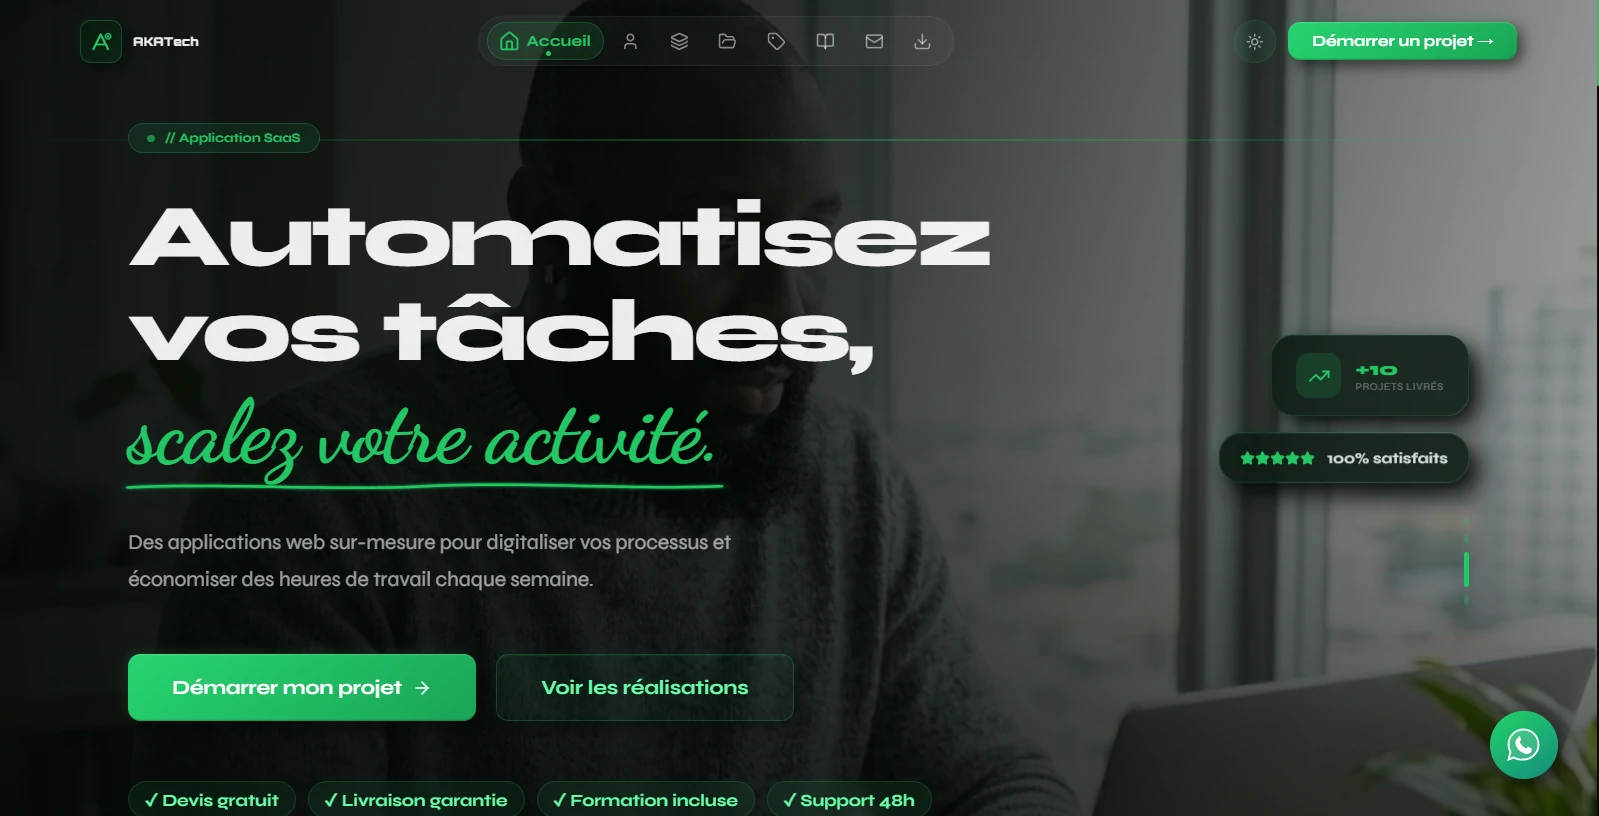
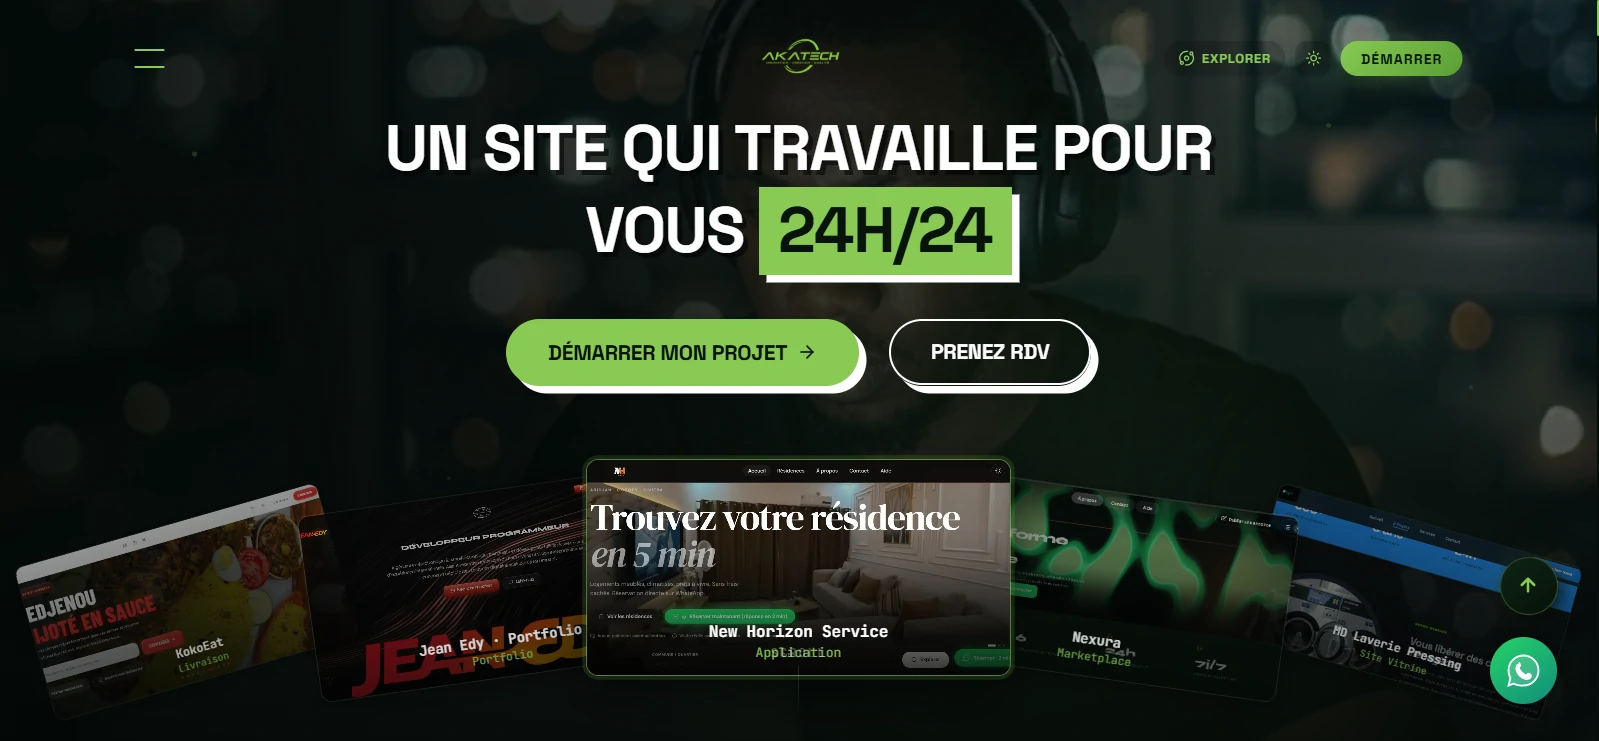
s envolement2

diff --git a/src/App.jsx b/src/App.jsx
@@ -836,16 +836,16 @@ function useScrollAnimations() {
  DONNÉES
  ════════════════════════════════════════════ */
 const PROJECTS = [
-  { id: 1, title: 'ShopCI', sub: 'Marketplace E-commerce', cat: 'en-ligne', img: '/assets/images/projects/monmarket-preview.webp', responsive: '/assets/images/projects/shopci-responsive.webp', imgFb: 'https://images.unsplash.com/photo-1557804506-669a67965ba0?w=600', tech: ['React', 'Django', 'Bootstrap 5', 'Vercel + PythonAnywhere'], url: 'https://shop-ci.vercel.app/', desc: "Marketplace multi-vendeurs conçue pour répondre aux problèmes de fiabilité, de visibilité et de gestion des ventes dans le e-commerce local ivoirien.", year: '2024',
+  { id: 1, title: 'ShopCI', sub: 'Marketplace E-commerce', cat: 'en-ligne', img: '/assets/images/projects/monmarket-preview.webp', responsive: '/assets/images/projects/shopci-responsive.webp', imgFb: 'https://images.unsplash.com/photo-1557804506-669a67965ba0?w=600', tech: ['React', 'Django', 'Bootstrap 5', 'Vercel + PythonAnywhere'], url: 'https://shop-ci.vercel.app/', desc: "Marketplace multi-vendeurs conçue pour répondre aux problèmes de fiabilité, de visibilité et de gestion des ventes dans le e-commerce local ivoirien.", year: '2026',
     private: true,
     problem: "Les vendeurs locaux n'avaient pas de vitrine en ligne fiable pour centraliser leurs produits et rassurer les acheteurs.",
     solution: "Marketplace multi-vendeurs avec back-office Django, fiches produits structurées et parcours d'achat simplifié.",
     result: "Estimation : temps de mise en ligne d'un produit réduit à quelques minutes pour un vendeur, contre plusieurs heures avant." },
-  { id: 2, title: 'TechFlow', sub: 'Site Vitrine Professionnel', cat: 'en-ligne', img: '/assets/images/projects/techflow-preview.webp', responsive: '/assets/images/projects/techflow.webp', imgFb: 'https://images.unsplash.com/photo-1547658719-da2b51169166?w=600', tech: ['HTML / Tailwind CSS', 'JavaScript', 'Vercel'], url: 'https://techflow-ten.vercel.app/', desc: 'Site vitrine moderne destiné à présenter une activité technologique de manière claire et professionnelle.', year: '2024',
+  { id: 2, title: 'TechFlow', sub: 'Site Vitrine Professionnel', cat: 'en-ligne', img: '/assets/images/projects/techflow-preview.webp', responsive: '/assets/images/projects/techflow.webp', imgFb: 'https://images.unsplash.com/photo-1547658719-da2b51169166?w=600', tech: ['HTML / Tailwind CSS', 'JavaScript', 'Vercel'], url: 'https://techflow-ten.vercel.app/', desc: 'Site vitrine moderne destiné à présenter une activité technologique de manière claire et professionnelle.', year: '2026',
     problem: "Le client n'avait aucune présence web pour présenter son activité tech de façon crédible.",
     solution: "Site vitrine one-page rapide, structuré autour de l'offre et des preuves de confiance.",
     result: "Estimation : site livré en moins d'une semaine, prêt à être partagé en prospection commerciale." },
-  { id: 3, title: 'TerraSafe', sub: 'Marketplace Foncière', cat: 'en-ligne', img: '/assets/images/projects/terrasafe-preview.webp', responsive: '/assets/images/projects/terrasafe.webp', imgFb: 'https://images.unsplash.com/photo-1560472354-b33ff0c44a43?w=600', tech: ['Python/Flask', 'MySQL', 'JavaScript', 'Bootstrap 5'], url: 'https://wthomassss06.pythonanywhere.com', desc: "Plateforme foncière visant à réduire les risques d'arnaques liées à la vente de terrains. Backend sécurisé avec recherche avancée.", year: '2024',
+  { id: 3, title: 'TerraSafe', sub: 'Marketplace Foncière', cat: 'en-ligne', img: '/assets/images/projects/terrasafe-preview.webp', responsive: '/assets/images/projects/terrasafe.webp', imgFb: 'https://images.unsplash.com/photo-1560472354-b33ff0c44a43?w=600', tech: ['Python/Flask', 'MySQL', 'JavaScript', 'Bootstrap 5'], url: 'https://wthomassss06.pythonanywhere.com', desc: "Plateforme foncière visant à réduire les risques d'arnaques liées à la vente de terrains. Backend sécurisé avec recherche avancée.", year: '2026',
     problem: "Trop d'arnaques sur la vente de terrains, faute de vérification des annonces et des vendeurs.",
     solution: "Backend sécurisé Flask/MySQL avec recherche avancée et structuration des annonces foncières.",
     result: "Architecture validée qui a servi de socle technique à NEXURA — preuve qu'elle tenait la route à l'échelle." },
@@ -865,44 +865,44 @@ const PROJECTS = [
     problem: "Les livraisons locales manquent de traçabilité : pas de preuve de dépôt, pas de suivi d'étapes.",
     solution: "Système de suivi logistique avec validation photo (Camera API) et statuts de livraison en direct.",
     result: "Simulation d'un vrai workflow logistique, de la prise en charge jusqu'à la preuve de livraison." },
-  { id: 8, title: 'LinkedIn Banner Pro', sub: 'Générateur SaaS', cat: 'en-cours', img: '/assets/images/projects/linkedin-banner-preview.webp', responsive: '/assets/images/projects/linkedin-banner.webp', imgFb: 'https://images.unsplash.com/photo-1558655146-d09347e92766?w=600', tech: ['JavaScript', 'Canvas API', 'Tailwind CSS'], url: '/demos/projet7.html', desc: 'Outil SaaS en cours de développement permettant de générer des bannières LinkedIn professionnelles.', year: '2025',
+  { id: 8, title: 'LinkedIn Banner Pro', sub: 'Générateur SaaS', cat: 'en-cours', img: '/assets/images/projects/linkedin-banner-preview.webp', responsive: '/assets/images/projects/linkedin-banner.webp', imgFb: 'https://images.unsplash.com/photo-1558655146-d09347e92766?w=600', tech: ['JavaScript', 'Canvas API', 'Tailwind CSS'], url: '/demos/projet7.html', desc: 'Outil SaaS en cours de développement permettant de générer des bannières LinkedIn professionnelles.', year: '2026',
     problem: "Créer une bannière LinkedIn pro demande des outils de design payants ou complexes à prendre en main.",
     solution: "Générateur SaaS avec rendu Canvas API, pensé pour un export rapide sans compétence design.",
     result: "Projet en cours — objectif : générer une bannière personnalisée en moins de 60 secondes." },
-  { id: 9, title: 'Tati', sub: 'Portfolio & Vitrine Moderne', cat: 'en-ligne', img: '/assets/images/projects/tati-preview.webp', responsive: '/assets/images/projects/tati.webp', imgFb: 'https://images.unsplash.com/photo-1618005182384-a83a8bd57fbe?w=600', tech: ['React', 'Tailwind CSS', 'Framer Motion', 'Vercel'], url: 'https://tatii.vercel.app/', desc: 'Portfolio personnel double fonction avec animations fluides, thème sombre/clair, design 100% responsive.', year: '2024',
+  { id: 9, title: 'Tati', sub: 'Portfolio & Vitrine Moderne', cat: 'en-ligne', img: '/assets/images/projects/tati-preview.webp', responsive: '/assets/images/projects/tati.webp', imgFb: 'https://images.unsplash.com/photo-1618005182384-a83a8bd57fbe?w=600', tech: ['React', 'Tailwind CSS', 'Framer Motion', 'Vercel'], url: 'https://tatii.vercel.app/', desc: 'Portfolio personnel double fonction avec animations fluides, thème sombre/clair, design 100% responsive.', year: '2026',
     github: 'https://github.com/wthomasss06-stack/tatii',
     problem: "Besoin d'un portfolio personnel qui sorte du template classique, avec une vraie identité visuelle.",
     solution: "Portfolio React/Framer Motion sur-mesure, thème clair/sombre, animations soignées de bout en bout.",
     result: "Livré et déployé en production — utilisé activement comme vitrine professionnelle." },
-  { id: 10, title: 'MK', sub: 'Portfolio Graphiste Client', cat: 'en-ligne', img: '/assets/images/projects/mk-preview.webp', responsive: '/assets/images/projects/mk.webp', imgFb: 'https://images.unsplash.com/photo-1555421689-491a97ff2040?w=600', tech: ['React', 'Tailwind CSS', 'Framer Motion', 'Vercel'], url: 'https://mory01ff.vercel.app/', desc: 'Portfolio professionnel sur-mesure pour un client graphiste. Galerie immersive, animations soignées.', year: '2024',
+  { id: 10, title: 'MK', sub: 'Portfolio Graphiste Client', cat: 'en-ligne', img: '/assets/images/projects/mk-preview.webp', responsive: '/assets/images/projects/mk.webp', imgFb: 'https://images.unsplash.com/photo-1555421689-491a97ff2040?w=600', tech: ['React', 'Tailwind CSS', 'Framer Motion', 'Vercel'], url: 'https://mory01ff.vercel.app/', desc: 'Portfolio professionnel sur-mesure pour un client graphiste. Galerie immersive, animations soignées.', year: '2026',
     problem: "Un graphiste avait besoin d'une galerie en ligne qui valorise ses créations sans les noyer dans un template.",
     solution: "Portfolio sur-mesure avec galerie immersive et animations pensées pour mettre le visuel en avant.",
     result: "Livré au client et en ligne — sert de vitrine commerciale directe pour ses prestations." },
-  { id: 11, title: 'ManoBeat 777', sub: 'Portfolio Beatmaker', cat: 'en-ligne', img: '/assets/images/projects/beatstore-preview.webp', responsive: '/assets/images/projects/beatstore.webp', imgFb: 'https://images.unsplash.com/photo-1493225457124-a3eb161ffa5f?w=600', tech: ['React', 'Tailwind CSS', 'Howler.js', 'Vercel'], url: 'https://xxx-x.vercel.app/', desc: "Portfolio d'un beatmaker ivoirien : découvrez et écoutez ses créations directement en ligne.", year: '2025',
+  { id: 11, title: 'ManoBeat 777', sub: 'Portfolio Beatmaker', cat: 'en-ligne', img: '/assets/images/projects/beatstore-preview.webp', responsive: '/assets/images/projects/beatstore.webp', imgFb: 'https://images.unsplash.com/photo-1493225457124-a3eb161ffa5f?w=600', tech: ['React', 'Tailwind CSS', 'Howler.js', 'Vercel'], url: 'https://xxx-x.vercel.app/', desc: "Portfolio d'un beatmaker ivoirien : découvrez et écoutez ses créations directement en ligne.", year: '2026',
     problem: "Un beatmaker ivoirien n'avait aucun moyen de faire écouter ses créations en ligne de façon professionnelle.",
     solution: "Portfolio audio avec lecteur intégré Howler.js pour écouter les créations directement sur le site.",
     result: "Estimation : écoute d'un beat ramenée à un simple clic, sans passer par un lien externe." },
-  { id: 12, title: 'New Horizon Service', sub: 'Location de Résidences', cat: 'en-ligne', img: '/assets/images/projects/newhorizon-preview.webp', responsive: '/assets/images/projects/newhorizon.webp', imgFb: 'https://images.unsplash.com/photo-1551650975-87deedd944c3?w=600', tech: ['Next.js', 'Flask', 'Python', 'MySQL', 'Vercel'], url: 'https://new-horizonservice.vercel.app/', desc: 'Plateforme de location de résidences meublées haut de gamme avec backend Flask sécurisé.', year: '2025',
+  { id: 12, title: 'New Horizon Service', sub: 'Location de Résidences', cat: 'en-ligne', img: '/assets/images/projects/newhorizon-preview.webp', responsive: '/assets/images/projects/newhorizon.webp', imgFb: 'https://images.unsplash.com/photo-1551650975-87deedd944c3?w=600', tech: ['Next.js', 'Flask', 'Python', 'MySQL', 'Vercel'], url: 'https://new-horizonservice.vercel.app/', desc: 'Plateforme de location de résidences meublées haut de gamme avec backend Flask sécurisé.', year: '2026',
     github: 'https://github.com/wthomasss06-stack/AllonsSomo',
     problem: "Les résidences meublées haut de gamme manquaient d'une plateforme de location fiable et sécurisée.",
     solution: "Plateforme Next.js/Flask avec backend sécurisé pour la gestion des annonces et des réservations.",
     result: "En production — a servi de base validée avant l'évolution vers NEXURA." },
-  { id: 13, title: 'AKATech', sub: 'Agence Digitale Abidjan', cat: 'en-ligne', img: '/assets/images/projects/akatech-preview.webp', responsive: '/assets/images/projects/akatech.webp', imgFb: 'https://images.unsplash.com/photo-1531403009284-440f080d1e12?w=600', tech: ['Next.js 15', 'Framer Motion', 'WebGL Aurora', 'Vercel'], url: 'https://akatech.vercel.app/', desc: "Site officiel de mon agence — AKATech accompagne les entrepreneurs et PME en Côte d'Ivoire.", year: '2025',
+  { id: 13, title: 'AKATech', sub: 'Agence Digitale Abidjan', cat: 'en-ligne', img: '/assets/images/projects/akatech-preview.webp', responsive: '/assets/images/projects/akatech.webp', imgFb: 'https://images.unsplash.com/photo-1531403009284-440f080d1e12?w=600', tech: ['Next.js 15', 'Framer Motion', 'WebGL Aurora', 'Vercel'], url: 'https://akatech.vercel.app/', desc: "Site officiel de mon agence — AKATech accompagne les entrepreneurs et PME en Côte d'Ivoire.", year: '2026',
     github: 'https://github.com/wthomasss06-stack/akatech-agencenext',
     problem: "Mon agence n'avait pas de site propre capable de convertir les prospects en clients.",
     solution: "Site agence Next.js 15 avec WebGL Aurora, animations Framer Motion et structure orientée conversion (process, pricing, projets).",
     result: "En production, indexé rapidement sur Google — sert de vitrine commerciale principale." },
-  { id: 14, title: 'Université les Anges', sub: 'Site Institutionnel', cat: 'en-ligne', img: '/assets/images/projects/universitelesanges-preview.webp', responsive: '/assets/images/projects/universitelesanges.webp', imgFb: 'https://images.unsplash.com/photo-1581291518633-83b4ebd1d83e?w=600', tech: ['HTML', 'CSS', 'Bulma', 'Bootstrap', 'Vercel'], url: 'https://universitelesanges.vercel.app/', desc: "Site institutionnel moderne pour l'Université les Anges.", year: '2025',
+  { id: 14, title: 'Université les Anges', sub: 'Site Institutionnel', cat: 'en-ligne', img: '/assets/images/projects/universitelesanges-preview.webp', responsive: '/assets/images/projects/universitelesanges.webp', imgFb: 'https://images.unsplash.com/photo-1581291518633-83b4ebd1d83e?w=600', tech: ['HTML', 'CSS', 'Bulma', 'Bootstrap', 'Vercel'], url: 'https://universitelesanges.vercel.app/', desc: "Site institutionnel moderne pour l'Université les Anges.", year: '2026',
     github: 'https://github.com/wthomasss06-stack/universite-les-anges',
     problem: "Une université privée avait besoin d'un site institutionnel crédible pour rassurer futurs étudiants et parents.",
     solution: "Site institutionnel structuré (présentation, filières, contact) en HTML/Bulma/Bootstrap.",
     result: "Livré et en ligne — utilisé comme point d'entrée officiel de l'établissement." },
-  { id: 15, title: 'NEXURA', sub: 'Marketplace Nouvelle Génération', cat: 'en-ligne', img: '/assets/images/projects/nexura-preview.webp', responsive: '/assets/images/projects/nexura-responsive.webp', imgFb: 'https://images.unsplash.com/photo-1560472354-b33ff0c44a43?w=600', tech: ['Next.js 14', 'Django REST', 'PostgreSQL', 'WebSockets', 'Redis & Celery'], url: 'https://nexura-one.vercel.app/', desc: "Marketplace nouvelle génération — évolution de TerraSafe. Location de résidences meublées, motos & véhicules, bureaux & salles de conférence, terrains & immobilier. Auth sécurisée, KYC intégré, temps réel.", year: '2025',
+  { id: 15, title: 'NEXURA', sub: 'Marketplace Nouvelle Génération', cat: 'en-ligne', img: '/assets/images/projects/nexura-preview.webp', responsive: '/assets/images/projects/nexura-responsive.webp', imgFb: 'https://images.unsplash.com/photo-1560472354-b33ff0c44a43?w=600', tech: ['Next.js 14', 'Django REST', 'PostgreSQL', 'WebSockets', 'Redis & Celery'], url: 'https://nexura-one.vercel.app/', desc: "Marketplace nouvelle génération — évolution de TerraSafe. Location de résidences meublées, motos & véhicules, bureaux & salles de conférence, terrains & immobilier. Auth sécurisée, KYC intégré, temps réel.", year: '2026',
     private: true,
     problem: "TerraSafe avait besoin de passer à l'échelle : plus de catégories, plus de sécurité, du temps réel.",
     solution: "Marketplace nouvelle génération Next.js 14 + Django REST + WebSockets, KYC intégré, architecture pensée pour réduire le risque légal.",
     result: "Projet le plus avancé techniquement du portfolio — repo privé (client), en évolution continue." },
-  { id: 16, title: 'KokoEat', sub: 'Livraison Alimentaire', cat: 'en-cours', img: '/assets/images/projects/kokoeat-preview.webp', responsive: '/assets/images/projects/kokoeat-responsive.webp', imgFb: 'https://images.unsplash.com/photo-[phone redacted]-b28f40a0ae38?w=600', tech: ['React', 'Django REST', 'PostgreSQL', 'Vercel'], url: '#', desc: "Application de livraison de repas pensée pour le marché ivoirien. Commande en ligne, suivi en temps réel et paiement Mobile Money.", year: '2025',
+  { id: 16, title: 'KokoEat', sub: 'Livraison Alimentaire', cat: 'en-cours', img: '/assets/images/projects/kokoeat-preview.webp', responsive: '/assets/images/projects/kokoeat-responsive.webp', imgFb: 'https://images.unsplash.com/photo-[phone redacted]-b28f40a0ae38?w=600', tech: ['React', 'Django REST', 'PostgreSQL', 'Vercel'], url: '#', desc: "Application de livraison de repas pensée pour le marché ivoirien. Commande en ligne, suivi en temps réel et paiement Mobile Money.", year: '2026',
     problem: "Le marché ivoirien manque d'une app de livraison de repas pensée pour le paiement Mobile Money.",
     solution: "App de commande en ligne avec suivi temps réel et intégration Mobile Money prévue.",
     result: "Projet en cours de développement." },
@@ -911,11 +911,15 @@ const PROJECTS = [
     problem: "Un développeur avait besoin d'un portfolio qui démontre un niveau UI avancé pour ses candidatures.",
     solution: "Portfolio React 18/GSAP avec direction artistique skeuomorphisme complet, sur-mesure.",
     result: "Livré et en ligne — repo privé (client)." },
-  { id: 18, title: 'MD Laverie Pressing', sub: 'Site Vitrine Pressing', cat: 'en-ligne', img: '/assets/images/projects/laverie-preview.webp', responsive: '/assets/images/projects/laverie.webp', imgFb: 'https://images.unsplash.com/photo-[phone redacted]-4fe89db7114c?w=600', tech: ['React 18', 'Vite', 'GSAP', 'React Router v6', 'EmailJS'], url: 'https://laverie-plus.vercel.app/', desc: "Site vitrine complet pour MD Laverie Pressing, Abidjan. Hero slider GSAP, grille packs pricing, formulaire contact EmailJS.", year: '2025',
+  { id: 18, title: 'MD Laverie Pressing', sub: 'Site Vitrine Pressing', cat: 'en-ligne', img: '/assets/images/projects/laverie-preview.webp', responsive: '/assets/images/projects/laverie.webp', imgFb: 'https://images.unsplash.com/photo-[phone redacted]-4fe89db7114c?w=600', tech: ['React 18', 'Vite', 'GSAP', 'React Router v6', 'EmailJS'], url: 'https://laverie-plus.vercel.app/', desc: "Site vitrine complet pour MD Laverie Pressing, Abidjan. Hero slider GSAP, grille packs pricing, formulaire contact EmailJS.", year: '2026',
     github: 'https://github.com/wthomasss06-stack/PRESSING',
     problem: "Un pressing à Abidjan n'avait aucune présence en ligne pour présenter ses tarifs et être contacté.",
     solution: "Site vitrine React/GSAP avec hero slider, grille de tarifs claire et formulaire de contact EmailJS.",
     result: "Livré et en ligne — génère des demandes de contact directement depuis le site." },
+  { id: 19, title: 'Chez Florence', sub: 'Vente & Réservation de Lapins', cat: 'en-ligne', img: '/assets/images/projects/chez-florence-preview.webp', responsive: '/assets/images/projects/chez-florence-responsive.webp', responsive2: '/assets/images/projects/chez-florence-responsive2.webp', imgFb: 'https://images.unsplash.com/photo-[phone redacted]-c9ffd4e4b308?w=600', tech: ['Next.js 14', 'Express.js', 'Prisma', 'PostgreSQL (Neon)', 'Cloudinary'], url: 'https://lapinou.vercel.app/', desc: "Plateforme de présentation et réservation de lapins pour éleveurs et particuliers : fiches par race, réservation en ligne, stock synchronisé en temps réel et notification WhatsApp automatique.", year: '2026',
+    problem: "Les éleveurs de lapins n'avaient aucune vitrine en ligne pour présenter leurs races et centraliser les réservations.",
+    solution: "App Next.js/Express avec fiches détaillées par race, réservation en ligne (quantité, stock auto-décrémenté) et double notification — email admin et WhatsApp pré-rempli.",
+    result: "PWA installable avec tableau de bord admin (stock, réservations, stats de vente) — livré et en production." },
 ]
 
 const SERVICES = [
@@ -1932,14 +1936,14 @@ function HeroZoomSection() {
 
 /* ════════════════════════════════════════════
  FEATURED CREATION — desktop
- Auto-slide entre KokoEat (16) et Nexura (15)
+ Auto-slide entre KokoEat (16) et Chez Florence (19)
  Pas de tabs — slide auto toutes les 6 s
  ════════════════════════════════════════════ */
 
 /* Ids des projets à présenter dans la section hero-projet,
  dans l'ordre souhaité. On s'appuie sur PROJECTS.responsive
  pour le mockup mobile, et PROJECTS.img pour le desktop. */
-const FC_PROJECT_IDS = [16, 15]
+const FC_PROJECT_IDS = [16, 19]
 
 /* Résout l'URL de la barre du navigateur mockup */
 function fcBarUrl(proj) {
@@ -2099,7 +2103,7 @@ function FeaturedCreationDesktop() {
  PROJECTS TUNNEL — "Mes projets" — WebGL Hyper-Drive
  Remplace l'ancien horizontal parallax (fcx-*).
  Tunnel Three.js pinné en scroll (GSAP ScrollTrigger),
- débris texturés avec les captures des 18 projets,
+ débris texturés avec les captures des 19 projets,
  la séquence complète des projets est dupliquée le
  long de l'axe Z pour boucler deux fois pendant le scroll.
  Clic sur une carte → modal image + détails projet.
@@ -2147,7 +2151,7 @@ function ProjectsTunnel() {
     movingLight.position.set(0, 0, -200)
     scene.add(movingLight)
 
-    /* ── Textures : les captures des 18 projets (pas d'Unsplash) ── */
+    /* ── Textures : les captures des 19 projets (pas d'Unsplash) ── */
     const textureLoader = new THREE.TextureLoader()
     const projectTextures = PROJECTS.map(p => {
       const tex = textureLoader.load(p.img)
@@ -2200,7 +2204,7 @@ function ProjectsTunnel() {
     const SPACING = 52 // espacement accru pour laisser respirer les cartes agrandies
     const LOOP_LENGTH = ITEMS_PER_LOOP * SPACING // 1872
 
-    // Construit une boucle complète de la séquence des 18 projets.
+    // Construit une boucle complète de la séquence des 19 projets.
     // Appelée deux fois (loopIndex 0 et 1) : le tunnel boucle deux fois.
     function buildLoop(loopIndex) {
       for (let i = 0; i < ITEMS_PER_LOOP; i++) {
@@ -2645,7 +2649,7 @@ function ProjectsTunnel() {
  chiffre en count-up + label, façon "30+ awards"
  ════════════════════════════════════════════ */
 const ABOUT_STATS = [
-  { target: 18, suffix: '', label: 'Projets', sub: 'Livrés sur mesure, du concept au déploiement' },
+  { target: 19, suffix: '', label: 'Projets', sub: 'Livrés sur mesure, du concept au déploiement' },
   { target: 3, suffix: '+', label: 'Années', sub: 'D’expérience en développement web' },
   { target: 12, suffix: '', label: 'En prod.', sub: 'Applications actuellement en ligne' },
   { target: 15, suffix: '', label: 'Outils', sub: 'Technologies maîtrisées au quotidien' },

diff --git a/src/data/portfolioData.js b/src/data/portfolioData.js
@@ -50,16 +50,16 @@ export const CONTACT = {
 // variantes d'images). Win95Portfolio.jsx a une version plus pauvre
 // (mêmes projets, sans le narratif) — à migrer vers celle-ci.
 export const PROJECTS = [
-  { id: 1, title: 'ShopCI', sub: 'Marketplace E-commerce', cat: 'en-ligne', img: '/assets/images/projects/monmarket-preview.webp', responsive: '/assets/images/projects/shopci-responsive.webp', imgFb: 'https://images.unsplash.com/photo-1557804506-669a67965ba0?w=600', tech: ['React', 'Django', 'Bootstrap 5', 'Vercel + PythonAnywhere'], url: 'https://shop-ci.vercel.app/', desc: "Marketplace multi-vendeurs conçue pour répondre aux problèmes de fiabilité, de visibilité et de gestion des ventes dans le e-commerce local ivoirien.", year: '2024',
+  { id: 1, title: 'ShopCI', sub: 'Marketplace E-commerce', cat: 'en-ligne', img: '/assets/images/projects/monmarket-preview.webp', responsive: '/assets/images/projects/shopci-responsive.webp', imgFb: 'https://images.unsplash.com/photo-1557804506-669a67965ba0?w=600', tech: ['React', 'Django', 'Bootstrap 5', 'Vercel + PythonAnywhere'], url: 'https://shop-ci.vercel.app/', desc: "Marketplace multi-vendeurs conçue pour répondre aux problèmes de fiabilité, de visibilité et de gestion des ventes dans le e-commerce local ivoirien.", year: '2026',
     private: true,
     problem: "Les vendeurs locaux n'avaient pas de vitrine en ligne fiable pour centraliser leurs produits et rassurer les acheteurs.",
     solution: "Marketplace multi-vendeurs avec back-office Django, fiches produits structurées et parcours d'achat simplifié.",
     result: "Estimation : temps de mise en ligne d'un produit réduit à quelques minutes pour un vendeur, contre plusieurs heures avant." },
-  { id: 2, title: 'TechFlow', sub: 'Site Vitrine Professionnel', cat: 'en-ligne', img: '/assets/images/projects/techflow-preview.webp', responsive: '/assets/images/projects/techflow.webp', imgFb: 'https://images.unsplash.com/photo-1547658719-da2b51169166?w=600', tech: ['HTML / Tailwind CSS', 'JavaScript', 'Vercel'], url: 'https://techflow-ten.vercel.app/', desc: 'Site vitrine moderne destiné à présenter une activité technologique de manière claire et professionnelle.', year: '2024',
+  { id: 2, title: 'TechFlow', sub: 'Site Vitrine Professionnel', cat: 'en-ligne', img: '/assets/images/projects/techflow-preview.webp', responsive: '/assets/images/projects/techflow.webp', imgFb: 'https://images.unsplash.com/photo-1547658719-da2b51169166?w=600', tech: ['HTML / Tailwind CSS', 'JavaScript', 'Vercel'], url: 'https://techflow-ten.vercel.app/', desc: 'Site vitrine moderne destiné à présenter une activité technologique de manière claire et professionnelle.', year: '2026',
     problem: "Le client n'avait aucune présence web pour présenter son activité tech de façon crédible.",
     solution: "Site vitrine one-page rapide, structuré autour de l'offre et des preuves de confiance.",
     result: "Estimation : site livré en moins d'une semaine, prêt à être partagé en prospection commerciale." },
-  { id: 3, title: 'TerraSafe', sub: 'Marketplace Foncière', cat: 'en-ligne', img: '/assets/images/projects/terrasafe-preview.webp', responsive: '/assets/images/projects/terrasafe.webp', imgFb: 'https://images.unsplash.com/photo-1560472354-b33ff0c44a43?w=600', tech: ['Python/Flask', 'MySQL', 'JavaScript', 'Bootstrap 5'], url: 'https://wthomassss06.pythonanywhere.com', desc: "Plateforme foncière visant à réduire les risques d'arnaques liées à la vente de terrains. Backend sécurisé avec recherche avancée.", year: '2024',
+  { id: 3, title: 'TerraSafe', sub: 'Marketplace Foncière', cat: 'en-ligne', img: '/assets/images/projects/terrasafe-preview.webp', responsive: '/assets/images/projects/terrasafe.webp', imgFb: 'https://images.unsplash.com/photo-1560472354-b33ff0c44a43?w=600', tech: ['Python/Flask', 'MySQL', 'JavaScript', 'Bootstrap 5'], url: 'https://wthomassss06.pythonanywhere.com', desc: "Plateforme foncière visant à réduire les risques d'arnaques liées à la vente de terrains. Backend sécurisé avec recherche avancée.", year: '2026',
     problem: "Trop d'arnaques sur la vente de terrains, faute de vérification des annonces et des vendeurs.",
     solution: "Backend sécurisé Flask/MySQL avec recherche avancée et structuration des annonces foncières.",
     result: "Architecture validée qui a servi de socle technique à NEXURA — preuve qu'elle tenait la route à l'échelle." },
@@ -79,44 +79,44 @@ export const PROJECTS = [
     problem: "Les livraisons locales manquent de traçabilité : pas de preuve de dépôt, pas de suivi d'étapes.",
     solution: "Système de suivi logistique avec validation photo (Camera API) et statuts de livraison en direct.",
     result: "Simulation d'un vrai workflow logistique, de la prise en charge jusqu'à la preuve de livraison." },
-  { id: 8, title: 'LinkedIn Banner Pro', sub: 'Générateur SaaS', cat: 'en-cours', img: '/assets/images/projects/linkedin-banner-preview.webp', responsive: '/assets/images/projects/linkedin-banner.webp', imgFb: 'https://images.unsplash.com/photo-1558655146-d09347e92766?w=600', tech: ['JavaScript', 'Canvas API', 'Tailwind CSS'], url: '/demos/projet7.html', desc: 'Outil SaaS en cours de développement permettant de générer des bannières LinkedIn professionnelles.', year: '2025',
+  { id: 8, title: 'LinkedIn Banner Pro', sub: 'Générateur SaaS', cat: 'en-cours', img: '/assets/images/projects/linkedin-banner-preview.webp', responsive: '/assets/images/projects/linkedin-banner.webp', imgFb: 'https://images.unsplash.com/photo-1558655146-d09347e92766?w=600', tech: ['JavaScript', 'Canvas API', 'Tailwind CSS'], url: '/demos/projet7.html', desc: 'Outil SaaS en cours de développement permettant de générer des bannières LinkedIn professionnelles.', year: '2026',
     problem: "Créer une bannière LinkedIn pro demande des outils de design payants ou complexes à prendre en main.",
     solution: "Générateur SaaS avec rendu Canvas API, pensé pour un export rapide sans compétence design.",
     result: "Projet en cours — objectif : générer une bannière personnalisée en moins de 60 secondes." },
-  { id: 9, title: 'Tati', sub: 'Portfolio & Vitrine Moderne', cat: 'en-ligne', img: '/assets/images/projects/tati-preview.webp', responsive: '/assets/images/projects/tati.webp', imgFb: 'https://images.unsplash.com/photo-1618005182384-a83a8bd57fbe?w=600', tech: ['React', 'Tailwind CSS', 'Framer Motion', 'Vercel'], url: 'https://tatii.vercel.app/', desc: 'Portfolio personnel double fonction avec animations fluides, thème sombre/clair, design 100% responsive.', year: '2024',
+  { id: 9, title: 'Tati', sub: 'Portfolio & Vitrine Moderne', cat: 'en-ligne', img: '/assets/images/projects/tati-preview.webp', responsive: '/assets/images/projects/tati.webp', imgFb: 'https://images.unsplash.com/photo-1618005182384-a83a8bd57fbe?w=600', tech: ['React', 'Tailwind CSS', 'Framer Motion', 'Vercel'], url: 'https://tatii.vercel.app/', desc: 'Portfolio personnel double fonction avec animations fluides, thème sombre/clair, design 100% responsive.', year: '2026',
     github: 'https://github.com/wthomasss06-stack/tatii',
     problem: "Besoin d'un portfolio personnel qui sorte du template classique, avec une vraie identité visuelle.",
     solution: "Portfolio React/Framer Motion sur-mesure, thème clair/sombre, animations soignées de bout en bout.",
     result: "Livré et déployé en production — utilisé activement comme vitrine professionnelle." },
-  { id: 10, title: 'MK', sub: 'Portfolio Graphiste Client', cat: 'en-ligne', img: '/assets/images/projects/mk-preview.webp', responsive: '/assets/images/projects/mk.webp', imgFb: 'https://images.unsplash.com/photo-1555421689-491a97ff2040?w=600', tech: ['React', 'Tailwind CSS', 'Framer Motion', 'Vercel'], url: 'https://mory01ff.vercel.app/', desc: 'Portfolio professionnel sur-mesure pour un client graphiste. Galerie immersive, animations soignées.', year: '2024',
+  { id: 10, title: 'MK', sub: 'Portfolio Graphiste Client', cat: 'en-ligne', img: '/assets/images/projects/mk-preview.webp', responsive: '/assets/images/projects/mk.webp', imgFb: 'https://images.unsplash.com/photo-1555421689-491a97ff2040?w=600', tech: ['React', 'Tailwind CSS', 'Framer Motion', 'Vercel'], url: 'https://mory01ff.vercel.app/', desc: 'Portfolio professionnel sur-mesure pour un client graphiste. Galerie immersive, animations soignées.', year: '2026',
     problem: "Un graphiste avait besoin d'une galerie en ligne qui valorise ses créations sans les noyer dans un template.",
     solution: "Portfolio sur-mesure avec galerie immersive et animations pensées pour mettre le visuel en avant.",
     result: "Livré au client et en ligne — sert de vitrine commerciale directe pour ses prestations." },
-  { id: 11, title: 'ManoBeat 777', sub: 'Portfolio Beatmaker', cat: 'en-ligne', img: '/assets/images/projects/beatstore-preview.webp', responsive: '/assets/images/projects/beatstore.webp', imgFb: 'https://images.unsplash.com/photo-1493225457124-a3eb161ffa5f?w=600', tech: ['React', 'Tailwind CSS', 'Howler.js', 'Vercel'], url: 'https://xxx-x.vercel.app/', desc: "Portfolio d'un beatmaker ivoirien : découvrez et écoutez ses créations directement en ligne.", year: '2025',
+  { id: 11, title: 'ManoBeat 777', sub: 'Portfolio Beatmaker', cat: 'en-ligne', img: '/assets/images/projects/beatstore-preview.webp', responsive: '/assets/images/projects/beatstore.webp', imgFb: 'https://images.unsplash.com/photo-1493225457124-a3eb161ffa5f?w=600', tech: ['React', 'Tailwind CSS', 'Howler.js', 'Vercel'], url: 'https://xxx-x.vercel.app/', desc: "Portfolio d'un beatmaker ivoirien : découvrez et écoutez ses créations directement en ligne.", year: '2026',
     problem: "Un beatmaker ivoirien n'avait aucun moyen de faire écouter ses créations en ligne de façon professionnelle.",
     solution: "Portfolio audio avec lecteur intégré Howler.js pour écouter les créations directement sur le site.",
     result: "Estimation : écoute d'un beat ramenée à un simple clic, sans passer par un lien externe." },
-  { id: 12, title: 'New Horizon Service', sub: 'Location de Résidences', cat: 'en-ligne', img: '/assets/images/projects/newhorizon-preview.webp', responsive: '/assets/images/projects/newhorizon.webp', imgFb: 'https://images.unsplash.com/photo-1551650975-87deedd944c3?w=600', tech: ['Next.js', 'Flask', 'Python', 'MySQL', 'Vercel'], url: 'https://new-horizonservice.vercel.app/', desc: 'Plateforme de location de résidences meublées haut de gamme avec backend Flask sécurisé.', year: '2025',
+  { id: 12, title: 'New Horizon Service', sub: 'Location de Résidences', cat: 'en-ligne', img: '/assets/images/projects/newhorizon-preview.webp', responsive: '/assets/images/projects/newhorizon.webp', imgFb: 'https://images.unsplash.com/photo-1551650975-87deedd944c3?w=600', tech: ['Next.js', 'Flask', 'Python', 'MySQL', 'Vercel'], url: 'https://new-horizonservice.vercel.app/', desc: 'Plateforme de location de résidences meublées haut de gamme avec backend Flask sécurisé.', year: '2026',
     github: 'https://github.com/wthomasss06-stack/AllonsSomo',
     problem: "Les résidences meublées haut de gamme manquaient d'une plateforme de location fiable et sécurisée.",
     solution: "Plateforme Next.js/Flask avec backend sécurisé pour la gestion des annonces et des réservations.",
     result: "En production — a servi de base validée avant l'évolution vers NEXURA." },
-  { id: 13, title: 'akaTech', sub: 'Agence Digitale Abidjan', cat: 'en-ligne', img: '/assets/images/projects/akatech-preview.webp', responsive: '/assets/images/projects/akatech.webp', imgFb: 'https://images.unsplash.com/photo-1531403009284-440f080d1e12?w=600', tech: ['Next.js 15', 'Framer Motion', 'WebGL Aurora', 'Vercel'], url: 'https://akatech.vercel.app/', desc: "Site officiel de mon agence — akaTech accompagne les entrepreneurs et PME en Côte d'Ivoire.", year: '2025',
+  { id: 13, title: 'akaTech', sub: 'Agence Digitale Abidjan', cat: 'en-ligne', img: '/assets/images/projects/akatech-preview.webp', responsive: '/assets/images/projects/akatech.webp', imgFb: 'https://images.unsplash.com/photo-1531403009284-440f080d1e12?w=600', tech: ['Next.js 15', 'Framer Motion', 'WebGL Aurora', 'Vercel'], url: 'https://akatech.vercel.app/', desc: "Site officiel de mon agence — akaTech accompagne les entrepreneurs et PME en Côte d'Ivoire.", year: '2026',
     github: 'https://github.com/wthomasss06-stack/akatech-agencenext',
     problem: "Mon agence n'avait pas de site propre capable de convertir les prospects en clients.",
     solution: "Site agence Next.js 15 avec WebGL Aurora, animations Framer Motion et structure orientée conversion (process, pricing, projets).",
     result: "En production, indexé rapidement sur Google — sert de vitrine commerciale principale." },
-  { id: 14, title: 'Université les Anges', sub: 'Site Institutionnel', cat: 'en-ligne', img: '/assets/images/projects/universitelesanges-preview.webp', responsive: '/assets/images/projects/universitelesanges.webp', imgFb: 'https://images.unsplash.com/photo-1581291518633-83b4ebd1d83e?w=600', tech: ['HTML', 'CSS', 'Bulma', 'Bootstrap', 'Vercel'], url: 'https://universitelesanges.vercel.app/', desc: "Site institutionnel moderne pour l'Université les Anges.", year: '2025',
+  { id: 14, title: 'Université les Anges', sub: 'Site Institutionnel', cat: 'en-ligne', img: '/assets/images/projects/universitelesanges-preview.webp', responsive: '/assets/images/projects/universitelesanges.webp', imgFb: 'https://images.unsplash.com/photo-1581291518633-83b4ebd1d83e?w=600', tech: ['HTML', 'CSS', 'Bulma', 'Bootstrap', 'Vercel'], url: 'https://universitelesanges.vercel.app/', desc: "Site institutionnel moderne pour l'Université les Anges.", year: '2026',
     github: 'https://github.com/wthomasss06-stack/universite-les-anges',
     problem: "Une université privée avait besoin d'un site institutionnel crédible pour rassurer futurs étudiants et parents.",
     solution: "Site institutionnel structuré (présentation, filières, contact) en HTML/Bulma/Bootstrap.",
     result: "Livré et en ligne — utilisé comme point d'entrée officiel de l'établissement." },
-  { id: 15, title: 'NEXURA', sub: 'Marketplace Nouvelle Génération', cat: 'en-ligne', img: '/assets/images/projects/nexura-preview.webp', responsive: '/assets/images/projects/nexura-responsive.webp', imgFb: 'https://images.unsplash.com/photo-1560472354-b33ff0c44a43?w=600', tech: ['Next.js 14', 'Django REST', 'PostgreSQL', 'WebSockets', 'Redis & Celery'], url: 'https://nexura-one.vercel.app/', desc: "Marketplace nouvelle génération — évolution de TerraSafe. Location de résidences meublées, motos & véhicules, bureaux & salles de conférence, terrains & immobilier. Auth sécurisée, KYC intégré, temps réel.", year: '2025',
+  { id: 15, title: 'NEXURA', sub: 'Marketplace Nouvelle Génération', cat: 'en-ligne', img: '/assets/images/projects/nexura-preview.webp', responsive: '/assets/images/projects/nexura-responsive.webp', imgFb: 'https://images.unsplash.com/photo-1560472354-b33ff0c44a43?w=600', tech: ['Next.js 14', 'Django REST', 'PostgreSQL', 'WebSockets', 'Redis & Celery'], url: 'https://nexura-one.vercel.app/', desc: "Marketplace nouvelle génération — évolution de TerraSafe. Location de résidences meublées, motos & véhicules, bureaux & salles de conférence, terrains & immobilier. Auth sécurisée, KYC intégré, temps réel.", year: '2026',
     private: true,
     problem: "TerraSafe avait besoin de passer à l'échelle : plus de catégories, plus de sécurité, du temps réel.",
     solution: "Marketplace nouvelle génération Next.js 14 + Django REST + WebSockets, KYC intégré, architecture pensée pour réduire le risque légal.",
     result: "Projet le plus avancé techniquement du portfolio — repo privé (client), en évolution continue." },
-  { id: 16, title: 'KokoEat', sub: 'Livraison Alimentaire', cat: 'en-cours', img: '/assets/images/projects/kokoeat-preview.webp', responsive: '/assets/images/projects/kokoeat-responsive.webp', imgFb: 'https://images.unsplash.com/photo-[phone redacted]-b28f40a0ae38?w=600', tech: ['React', 'Django REST', 'PostgreSQL', 'Vercel'], url: '#', desc: "Application de livraison de repas pensée pour le marché ivoirien. Commande en ligne, suivi en temps réel et paiement Mobile Money.", year: '2025',
+  { id: 16, title: 'KokoEat', sub: 'Livraison Alimentaire', cat: 'en-cours', img: '/assets/images/projects/kokoeat-preview.webp', responsive: '/assets/images/projects/kokoeat-responsive.webp', imgFb: 'https://images.unsplash.com/photo-[phone redacted]-b28f40a0ae38?w=600', tech: ['React', 'Django REST', 'PostgreSQL', 'Vercel'], url: '#', desc: "Application de livraison de repas pensée pour le marché ivoirien. Commande en ligne, suivi en temps réel et paiement Mobile Money.", year: '2026',
     problem: "Le marché ivoirien manque d'une app de livraison de repas pensée pour le paiement Mobile Money.",
     solution: "App de commande en ligne avec suivi temps réel et intégration Mobile Money prévue.",
     result: "Projet en cours de développement." },
@@ -125,11 +125,15 @@ export const PROJECTS = [
     problem: "Un développeur avait besoin d'un portfolio qui démontre un niveau UI avancé pour ses candidatures.",
     solution: "Portfolio React 18/GSAP avec direction artistique skeuomorphisme complet, sur-mesure.",
     result: "Livré et en ligne — repo privé (client)." },
-  { id: 18, title: 'MD Laverie Pressing', sub: 'Site Vitrine Pressing', cat: 'en-ligne', img: '/assets/images/projects/laverie-preview.webp', responsive: '/assets/images/projects/laverie.webp', imgFb: 'https://images.unsplash.com/photo-[phone redacted]-4fe89db7114c?w=600', tech: ['React 18', 'Vite', 'GSAP', 'React Router v6', 'EmailJS'], url: 'https://laverie-plus.vercel.app/', desc: "Site vitrine complet pour MD Laverie Pressing, Abidjan. Hero slider GSAP, grille packs pricing, formulaire contact EmailJS.", year: '2025',
+  { id: 18, title: 'MD Laverie Pressing', sub: 'Site Vitrine Pressing', cat: 'en-ligne', img: '/assets/images/projects/laverie-preview.webp', responsive: '/assets/images/projects/laverie.webp', imgFb: 'https://images.unsplash.com/photo-[phone redacted]-4fe89db7114c?w=600', tech: ['React 18', 'Vite', 'GSAP', 'React Router v6', 'EmailJS'], url: 'https://laverie-plus.vercel.app/', desc: "Site vitrine complet pour MD Laverie Pressing, Abidjan. Hero slider GSAP, grille packs pricing, formulaire contact EmailJS.", year: '2026',
     github: 'https://github.com/wthomasss06-stack/PRESSING',
     problem: "Un pressing à Abidjan n'avait aucune présence en ligne pour présenter ses tarifs et être contacté.",
     solution: "Site vitrine React/GSAP avec hero slider, grille de tarifs claire et formulaire de contact EmailJS.",
     result: "Livré et en ligne — génère des demandes de contact directement depuis le site." },
+  { id: 19, title: 'Chez Florence', sub: 'Vente & Réservation de Lapins', cat: 'en-ligne', img: '/assets/images/projects/chez-florence-preview.webp', responsive: '/assets/images/projects/chez-florence-responsive.webp', responsive2: '/assets/images/projects/chez-florence-responsive2.webp', imgFb: 'https://images.unsplash.com/photo-[phone redacted]-c9ffd4e4b308?w=600', tech: ['Next.js 14', 'Express.js', 'Prisma', 'PostgreSQL (Neon)', 'Cloudinary'], url: 'https://lapinou.vercel.app/', desc: "Plateforme de présentation et réservation de lapins pour éleveurs et particuliers : fiches par race, réservation en ligne, stock synchronisé en temps réel et notification WhatsApp automatique.", year: '2026',
+    problem: "Les éleveurs de lapins n'avaient aucune vitrine en ligne pour présenter leurs races et centraliser les réservations.",
+    solution: "App Next.js/Express avec fiches détaillées par race, réservation en ligne (quantité, stock auto-décrémenté) et double notification — email admin et WhatsApp pré-rempli.",
+    result: "PWA installable avec tableau de bord admin (stock, réservations, stats de vente) — livré et en production." },
 ]
 
 // ─── Tarifs ─────────────────────────────────────────────────────
@@ -338,6 +342,7 @@ const PROJECT_EXTRAS = {
   16: { progress: 40, color: '#cc4400' },
   17: { progress: 100, isPremium: true, color: '#1a1a66' },
   18: { progress: 100, isPremium: true, color: '#004466' },
+  19: { progress: 100, isPremium: true, color: '#7a4b1e' },
 }
 PROJECTS.forEach(p => {
   p.subtitle = p.sub

diff --git a/src/Appmobile.jsx b/src/Appmobile.jsx
@@ -1936,7 +1936,7 @@ const Hero = ({ dark }) => {
 };
 
 /* Projets fixes pour la section vitrine mobile — même logique que le desktop */
-const FC_PROJECT_IDS = [16, 15];
+const FC_PROJECT_IDS = [16, 19];
 
 const FeaturedCreation = ({ dark }) => {
   const [ref, vis] = useInView(0.08);